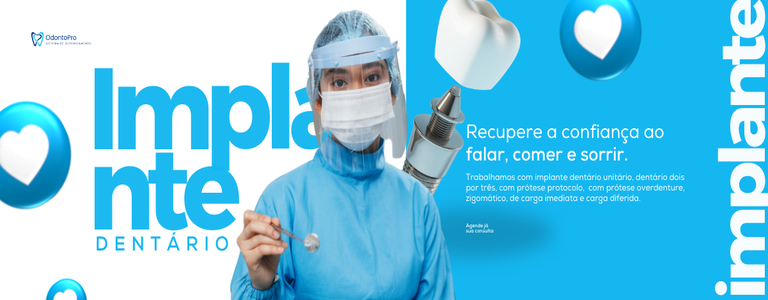
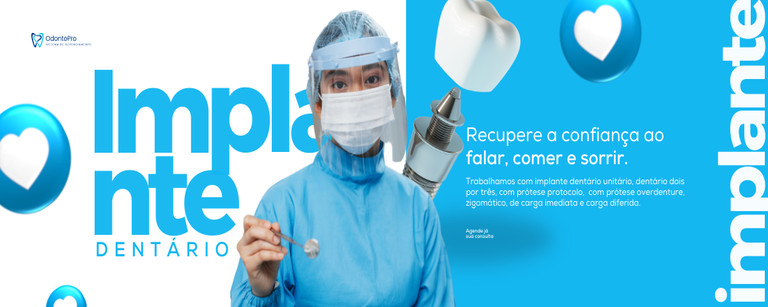
Banner_imagem_teste_responsivo_5

diff --git a/odontoPro/static/css/DashboardPaciente/dashboard.css b/odontoPro/static/css/DashboardPaciente/dashboard.css
@@ -325,7 +325,7 @@ body {
 .slide-carrossel img {
     width: 100%;
     height: 100%;
-    object-fit: contain;
+    object-fit: cover;
     object-position: center;
     display: block;
 }

diff --git a/staticfiles/css/DashboardPaciente/dashboard.css b/staticfiles/css/DashboardPaciente/dashboard.css
@@ -305,7 +305,7 @@ body {
 .slide-carrossel img {
     width: 100%;
     height: 100%;
-    object-fit: contain;
+    object-fit: cover;
     object-position: center;
     display: block;
 }
